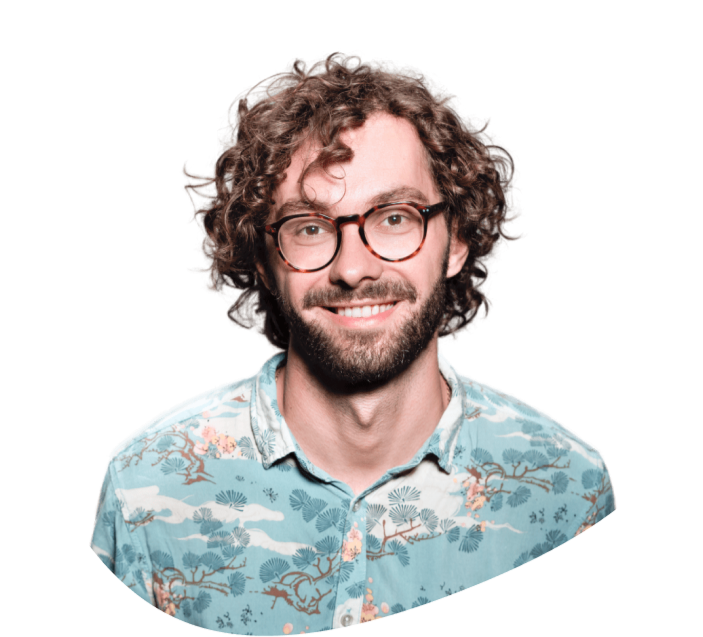
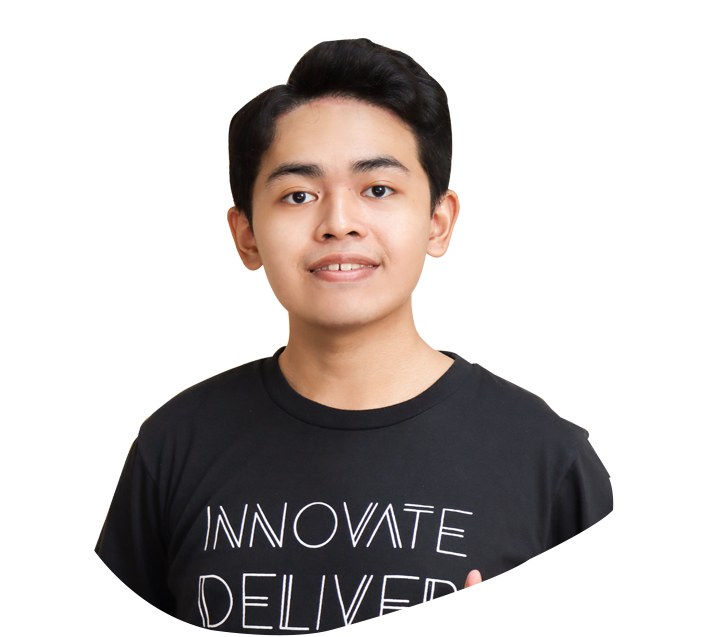
added pics

diff --git a/components/Hero.jsx b/components/Hero.jsx
@@ -22,15 +22,14 @@ const Hero = () => {
     <div className="container mx-auto">
       <div className='flex justify-between gap-x-8'>
         {/* Text */}
-        <div>
-          <div className='flex max-w-[600px flex-col justify-center mx-auto xl:mx-0 text-center xl:text-left'>
-            <div className='text-sm uppercase font-semibold mb-4 text-primary tracking-[4px]'>Data Engineer</div>
-            <h1 className='h1 mb-4'>Hello, my name is Kayne Rodrigo</h1>
-            <p className='subtitle max-w-[490px] mx-auto xl:mx-0'>
-              I'm currently a third year student taking up Bachelor of Science in Information Technology at Pamantasan ng Lungsod ng Maynila. I'm an Aspiring Data Engineer and I'm passionate about creating web applications that are user-friendly and accessible. I'm also a self-taught developer and I love learning new technologies and frameworks.
-            </p>
-            {/* buttons */}
-            <div className='flex flex-col gap-y-3 md:flex-row gap-x-3 mx-auto xl:mx-0 mb-12'>
+        <div className='flex max-w-[600px] flex-col justify-center mx-auto xl:mx-0 text-center xl:text-left'>
+          <div className='text-sm uppercase font-semibold mb-4 text-primary tracking-[4px]'>Data Engineer</div>
+          <h1 className='h1 mb-4'>Hello, my name is Kayne Rodrigo</h1>
+          <p className='subtitle max-w-[490px] mx-auto xl:mx-0'>
+              I'm currently a third year student taking up Bachelor of Science in Information Technology at Pamantasan ng Lungsod ng Maynila. I'm an Aspiring Data Engineer and I'm passionate about creating web applications that are user-friendly and accessible.
+          </p>
+          {/* buttons */}
+        <div className='flex flex-col gap-y-3 md:flex-row gap-x-3 mx-auto xl:mx-0 mb-12'>
               <Link href='/contact'>
                 <Button className='gap-x-2'>
                   Contact me <Send size={18}/>
@@ -39,19 +38,26 @@ const Hero = () => {
                 <Button variant='secondary' className='gap-xp2'>
                   Download CV<Download size={18} />
                 </Button>
-              
-            </div>
           </div>
+        
+        {/* Socials */}
+        <Socials containerStyles='flex gap-x-6 mx-auto xl:mx-0' 
+            iconsStyles='text-foreground text-[22px] hover:text-primary transition-all'/>
         </div>
         {/* Image */}
-        <div className='hidden xl:flex relative'>image</div>
+        <div className='hidden xl:flex relative'>
+          <div className="bg-hero_shape2_light dark:bg-hero_shape2_dark w-[500px] h-[500px] bg-no-repeat absolute -top-1 -right-2">
+          </div>
+          <DevImg containerStyles="bg-hero_shape w-[510px] h-[462px] bg-no-repeat relative bg-bottom" imgSrc="/hero/developer.png"/>  
+          
+        </div>
+
       </div>
       {/* icon */}
       <div className="hidden md:flex absolute left-2/4 bottom-24 xl:bottom-12 animate-bounce">
         <RiArrowDownSLine className = 'text-3xl text-primary' />
       </div>
     </div>
-
    </section>
   );
 }

diff --git a/app/globals.css b/app/globals.css
@@ -18,13 +18,13 @@
     --tertiary: 27 82% 98%;
     --muted: 60 4.8% 95.9%;
     --muted-foreground: 237 13% 40%;
-    --accent: 60 4.8% 95.9%;
+    --accent: 237 8% 96%;
     --accent-foreground: 24 9.8% 10%;
     --destructive: 0 84.2% 60.2%;
     --destructive-foreground: 60 9.1% 97.8%;
-    --border: 20 5.9% 90%;
-    --input: 20 5.9% 90%;
-    --ring: 24.6 95% 53.1%;
+    --border: 8 82% 92%;
+    --input: 8 82% 92%;
+    --ring: 9 99% 67%;
     --radius: 0.5rem;
     --chart-1: 12 76% 61%;
     --chart-2: 173 58% 39%;
@@ -34,25 +34,26 @@
   }
 
   .dark {
-    --background: 20 14.3% 4.1%;
+    --background:  237 22% 20%;
     --foreground: 60 9.1% 97.8%;
-    --card: 20 14.3% 4.1%;
-    --card-foreground: 60 9.1% 97.8%;
+    --card: 240 19% 16%;
+    --card-foreground: 300 0% 100%;
     --popover: 20 14.3% 4.1%;
     --popover-foreground: 60 9.1% 97.8%;
-    --primary: 20.5 90.2% 48.2%;
-    --primary-foreground: 60 9.1% 97.8%;
-    --secondary: 12 6.5% 15.1%;
-    --secondary-foreground: 60 9.1% 97.8%;
+    --primary: 8 99% 67%;
+    --primary-foreground: 300 0% 100%;
+    --secondary: 240 19% 16%;
+    --secondary-foreground: 300 0% 100%;
+    --tertiary: 237 22% 20%;
     --muted: 12 6.5% 15.1%;
-    --muted-foreground: 24 5.4% 63.9%;
-    --accent: 12 6.5% 15.1%;
-    --accent-foreground: 60 9.1% 97.8%;
+    --muted-foreground: 237 13% 63%;
+    --accent: 240 19% 16%;
+    --accent-foreground: 300 0% 100%;
     --destructive: 0 72.2% 50.6%;
     --destructive-foreground: 60 9.1% 97.8%;
-    --border: 12 6.5% 15.1%;
-    --input: 12 6.5% 15.1%;
-    --ring: 20.5 90.2% 48.2%;
+    --border: 237 22% 23%;
+    --input: 237 22% 23%;
+    --ring: 8 99% 67%;
     --chart-1: 220 70% 50%;
     --chart-2: 160 60% 45%;
     --chart-3: 30 80% 55%;

diff --git a/components/Socials.jsx b/components/Socials.jsx
@@ -1,8 +1,43 @@
-import React from 'react'
+'use client'
 
-const Socials = () => {
+import {RiYoutubeFill, RiLinkedinFill, RiGithubFill, RiFacebookFill, RiInstagramFill} from 'react-icons/ri';
+
+
+import Link from 'next/link';
+
+const icons = [
+  {
+    path: '/',
+    name: <RiYoutubeFill />,
+  },
+  {
+    path: '/',
+    name: <RiLinkedinFill />,
+  },
+  {
+    path: '/',
+    name: <RiGithubFill />,
+  },
+  {
+    path: '/',
+    name: <RiFacebookFill />,
+  },
+  {
+    path: '/',
+    name: <RiInstagramFill />,
+  }
+]
+
+const Socials = ({containerStyles, iconsStyles}) => {
   return (
-    <div>Socials</div>
+    <div className={`${containerStyles}`}>
+      {icons.map((icon, index)=> {
+        return (
+        <Link href={icon.path} key={index}>
+          <div className={`${iconsStyles}`}> {icon.name} </div>
+        </Link>);
+      })}
+    </div>
   )
 }
 

diff --git a/tailwind.config.js b/tailwind.config.js
@@ -75,8 +75,11 @@ module.exports = {
         "accordion-down": "accordion-down 0.2s ease-out",
         "accordion-up": "accordion-up 0.2s ease-out",
       },
-      backghhroundImage: {
-        hero: 'url(/hero/hero-bg.png)'
+      backgroundImage: {
+        hero: 'url(/hero/hero-bg.png)',
+        hero_shape: 'url(/hero/shape-1.svg)',
+        hero_shape2_light: 'url(/hero/shape-2-light.svg)',
+        hero_shape2_dark: 'url(/hero/shape-2-dark.svg)',
       }
     },
   },

diff --git a/components/DevImg.jsx b/components/DevImg.jsx
@@ -1,9 +1,11 @@
-import React from 'react'
+import Image from "next/image";
 
-const DevImg = () => {
+const DevImg = ({containerStyles, imgSrc}) => {
   return (
-    <div>DevImg</div>
-  )
-}
+    <div className={`${containerStyles}`}>
+      <Image src={imgSrc} fill priority alt='' />
+    </div>
+  );
+};
 
 export default DevImg

diff --git a/components/ui/button.jsx b/components/ui/button.jsx
@@ -20,7 +20,7 @@ const buttonVariants = cva(
         link: "text-primary underline-offset-4 hover:underline",
       },
       size: {
-        default: "h-[54px] px-6 py-2",
+        default: "h-[54px] px-6 py-2 min-w-[166px]",
         sm: "h-9 rounded-md px-3",
         lg: "h-11 rounded-md px-8",
         icon: "h-10 w-10",
